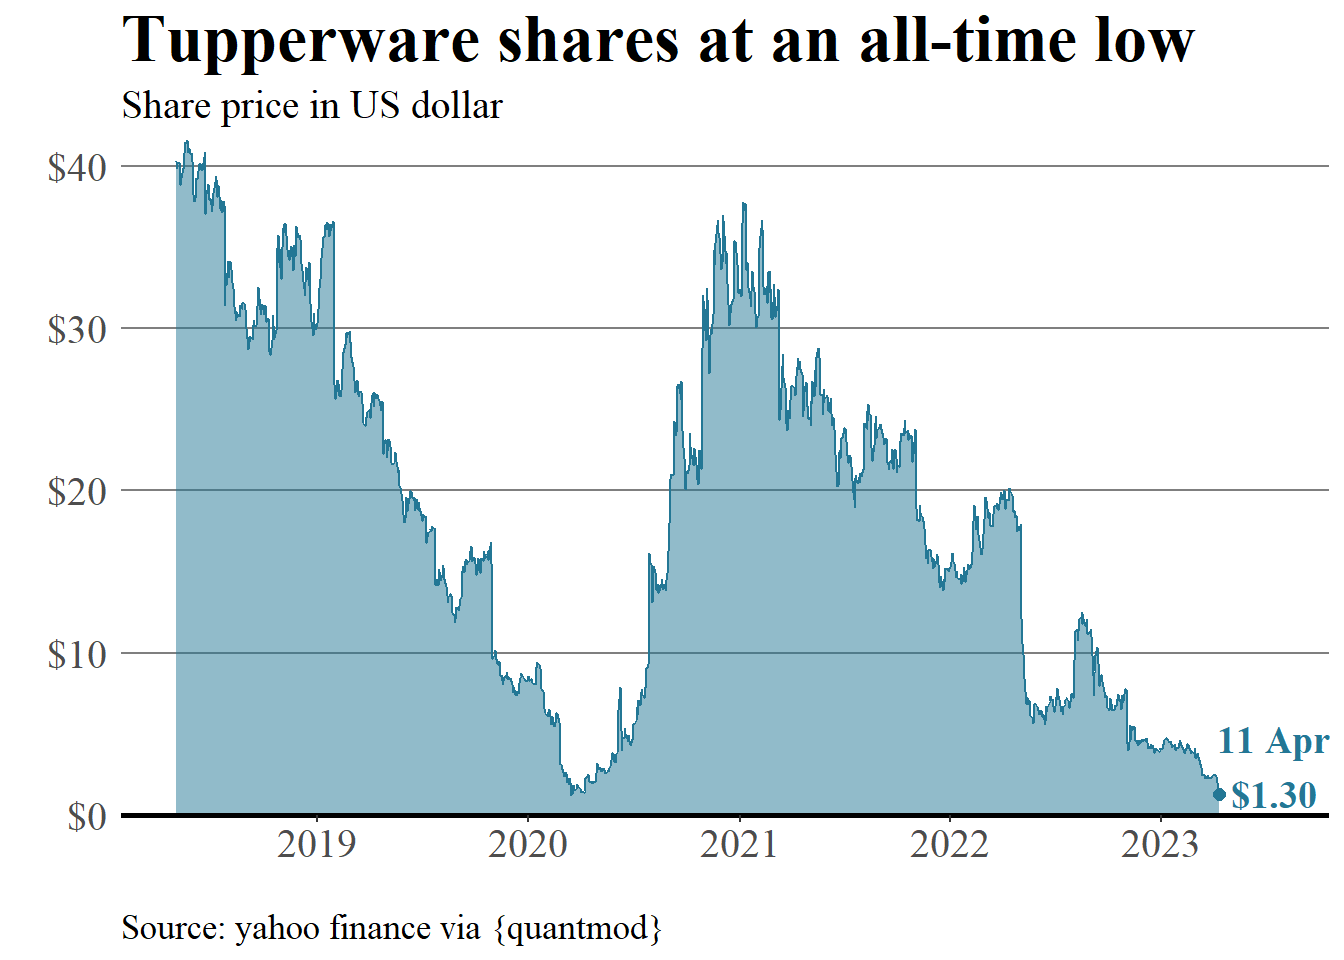
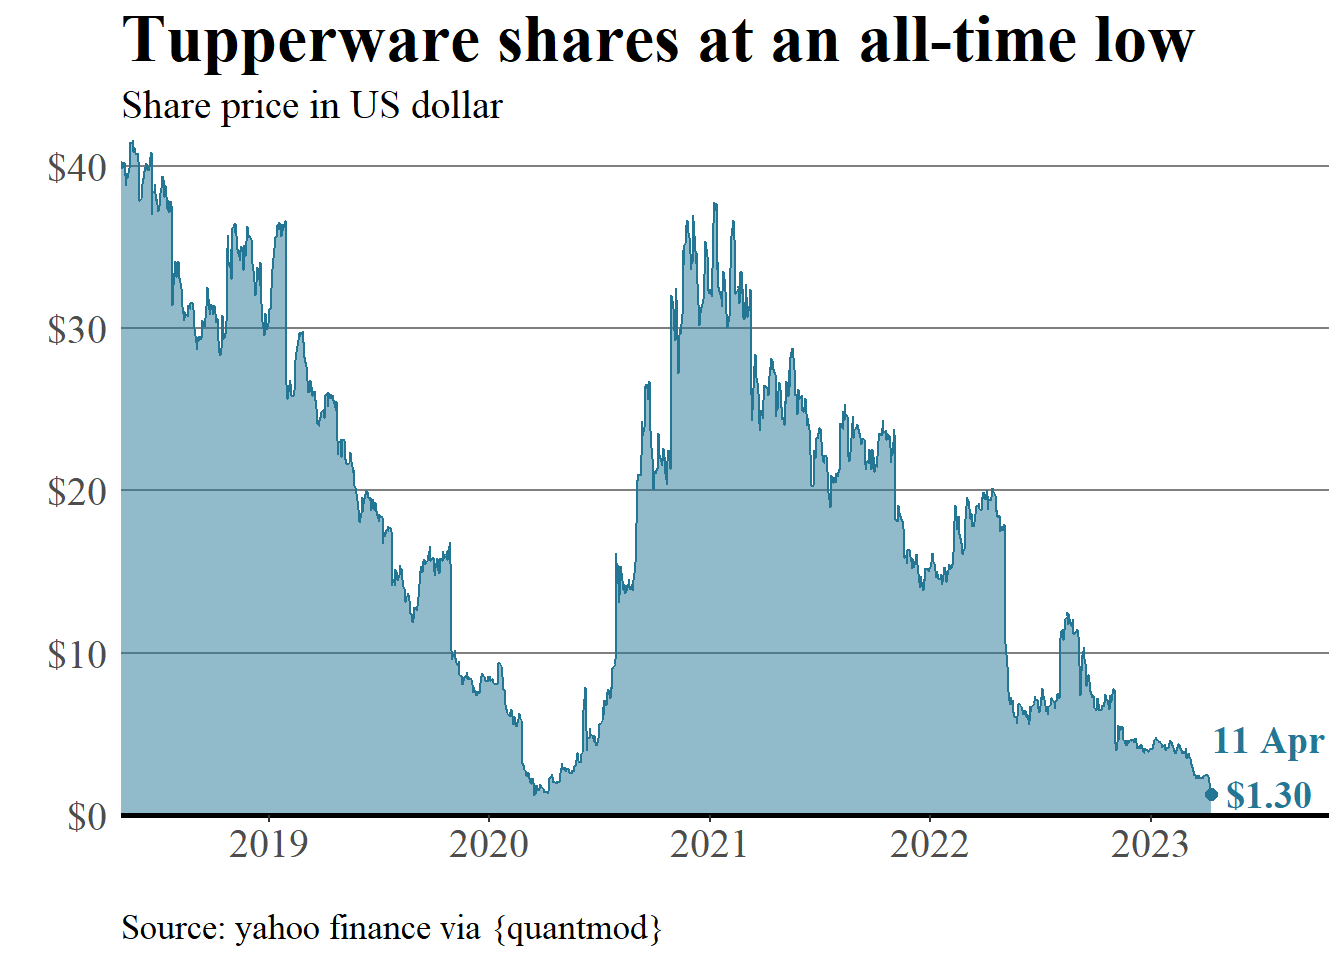
fix chart 20230412

diff --git a/_site/posts/30-days-charts-challenge-day12/index.html b/_site/posts/30-days-charts-challenge-day12/index.html
@@ -277,33 +277,35 @@ Registered S3 method overwritten by 'quantmod':
 <span id="cb7-7"><a href="#cb7-7" aria-hidden="true" tabindex="-1"></a>  <span class="fu">geom_area</span>(<span class="at">fill =</span> <span class="st">"#237795"</span>,<span class="at">alpha =</span> .<span class="dv">5</span>) <span class="sc">+</span></span>
 <span id="cb7-8"><a href="#cb7-8" aria-hidden="true" tabindex="-1"></a>  <span class="fu">scale_y_continuous</span>(<span class="at">labels =</span> scales<span class="sc">::</span><span class="fu">dollar_format</span>(),</span>
 <span id="cb7-9"><a href="#cb7-9" aria-hidden="true" tabindex="-1"></a>                     <span class="at">expand =</span> <span class="fu">c</span>(<span class="dv">0</span>,<span class="dv">0</span>)) <span class="sc">+</span></span>
-<span id="cb7-10"><a href="#cb7-10" aria-hidden="true" tabindex="-1"></a>  <span class="fu">labs</span>(<span class="at">title =</span> <span class="st">"Tupperware shares at an all-time low"</span>,</span>
-<span id="cb7-11"><a href="#cb7-11" aria-hidden="true" tabindex="-1"></a>       <span class="at">subtitle =</span> <span class="st">"Share price in US dollar"</span>,</span>
-<span id="cb7-12"><a href="#cb7-12" aria-hidden="true" tabindex="-1"></a>       <span class="at">y =</span> <span class="st">""</span>,</span>
-<span id="cb7-13"><a href="#cb7-13" aria-hidden="true" tabindex="-1"></a>       <span class="at">x =</span> <span class="st">""</span>,</span>
-<span id="cb7-14"><a href="#cb7-14" aria-hidden="true" tabindex="-1"></a>       <span class="at">caption =</span> <span class="st">"Source: yahoo finance via {quantmod}"</span>) <span class="sc">+</span></span>
-<span id="cb7-15"><a href="#cb7-15" aria-hidden="true" tabindex="-1"></a>  <span class="fu">annotate</span>(<span class="at">geom =</span> <span class="st">"point"</span>,</span>
-<span id="cb7-16"><a href="#cb7-16" aria-hidden="true" tabindex="-1"></a>           <span class="at">x =</span> <span class="fu">as.Date</span>(<span class="st">"2023-04-11"</span>),</span>
-<span id="cb7-17"><a href="#cb7-17" aria-hidden="true" tabindex="-1"></a>           <span class="at">y =</span> <span class="fl">1.3</span>,</span>
-<span id="cb7-18"><a href="#cb7-18" aria-hidden="true" tabindex="-1"></a>           <span class="at">col =</span> <span class="st">"#237795"</span>,</span>
-<span id="cb7-19"><a href="#cb7-19" aria-hidden="true" tabindex="-1"></a>           <span class="at">size =</span> <span class="dv">2</span>) <span class="sc">+</span> </span>
-<span id="cb7-20"><a href="#cb7-20" aria-hidden="true" tabindex="-1"></a>  <span class="fu">annotate</span>(<span class="at">geom =</span> <span class="st">"text"</span>,<span class="at">label =</span> <span class="st">"11 Apr</span><span class="sc">\n</span><span class="st">$1.30"</span>,</span>
-<span id="cb7-21"><a href="#cb7-21" aria-hidden="true" tabindex="-1"></a>           <span class="at">x =</span> <span class="fu">as.Date</span>(<span class="st">"2023-07-15"</span>),</span>
-<span id="cb7-22"><a href="#cb7-22" aria-hidden="true" tabindex="-1"></a>           <span class="at">y =</span> <span class="dv">3</span>,</span>
-<span id="cb7-23"><a href="#cb7-23" aria-hidden="true" tabindex="-1"></a>           <span class="at">col =</span> <span class="st">"#237795"</span>,</span>
-<span id="cb7-24"><a href="#cb7-24" aria-hidden="true" tabindex="-1"></a>           <span class="at">family =</span> <span class="st">"serif"</span>, <span class="at">fontface =</span> <span class="st">"bold"</span>,</span>
-<span id="cb7-25"><a href="#cb7-25" aria-hidden="true" tabindex="-1"></a>           <span class="at">size =</span> <span class="dv">5</span>) <span class="sc">+</span></span>
-<span id="cb7-26"><a href="#cb7-26" aria-hidden="true" tabindex="-1"></a>  <span class="fu">theme</span>(<span class="at">panel.background =</span> <span class="fu">element_rect</span>(<span class="at">fill =</span> <span class="st">"white"</span>),</span>
-<span id="cb7-27"><a href="#cb7-27" aria-hidden="true" tabindex="-1"></a>        <span class="at">panel.grid.major.y =</span> <span class="fu">element_line</span>(<span class="at">colour =</span> <span class="st">"grey50"</span>),</span>
-<span id="cb7-28"><a href="#cb7-28" aria-hidden="true" tabindex="-1"></a>        <span class="at">panel.grid.major.x =</span> <span class="fu">element_blank</span>(),</span>
-<span id="cb7-29"><a href="#cb7-29" aria-hidden="true" tabindex="-1"></a>        <span class="at">axis.ticks.y =</span> <span class="fu">element_blank</span>(),</span>
-<span id="cb7-30"><a href="#cb7-30" aria-hidden="true" tabindex="-1"></a>        <span class="at">axis.line.x =</span> <span class="fu">element_line</span>(<span class="at">linewidth =</span> <span class="dv">1</span>),</span>
-<span id="cb7-31"><a href="#cb7-31" aria-hidden="true" tabindex="-1"></a>        <span class="at">text =</span> <span class="fu">element_text</span>(<span class="at">family =</span> <span class="st">"serif"</span>),</span>
-<span id="cb7-32"><a href="#cb7-32" aria-hidden="true" tabindex="-1"></a>        <span class="at">axis.text =</span> <span class="fu">element_text</span>(<span class="at">size =</span> <span class="dv">15</span>),</span>
-<span id="cb7-33"><a href="#cb7-33" aria-hidden="true" tabindex="-1"></a>        <span class="at">plot.title =</span> <span class="fu">element_text</span>(<span class="at">face =</span> <span class="st">"bold"</span>,</span>
-<span id="cb7-34"><a href="#cb7-34" aria-hidden="true" tabindex="-1"></a>                                  <span class="at">family =</span> <span class="st">"serif"</span>,<span class="at">size =</span> <span class="dv">25</span>),</span>
-<span id="cb7-35"><a href="#cb7-35" aria-hidden="true" tabindex="-1"></a>        <span class="at">plot.subtitle =</span> <span class="fu">element_text</span>(<span class="at">family =</span> <span class="st">"serif"</span>,<span class="at">size =</span> <span class="dv">15</span>),</span>
-<span id="cb7-36"><a href="#cb7-36" aria-hidden="true" tabindex="-1"></a>        <span class="at">plot.caption =</span> <span class="fu">element_text</span>(<span class="at">hjust =</span> <span class="dv">0</span>,<span class="at">family =</span> <span class="st">"serif"</span>,<span class="at">size =</span> <span class="dv">13</span>))</span></code><button title="Copy to Clipboard" class="code-copy-button"><i class="bi"></i></button></pre></div>
+<span id="cb7-10"><a href="#cb7-10" aria-hidden="true" tabindex="-1"></a>  <span class="fu">scale_x_date</span>(<span class="at">expand =</span> <span class="fu">expansion</span>(<span class="at">mult =</span> <span class="fu">c</span>(<span class="dv">0</span>,<span class="dv">0</span>),</span>
+<span id="cb7-11"><a href="#cb7-11" aria-hidden="true" tabindex="-1"></a>                                  <span class="at">add =</span> <span class="fu">c</span>(<span class="dv">0</span>,<span class="dv">100</span>))) <span class="sc">+</span> </span>
+<span id="cb7-12"><a href="#cb7-12" aria-hidden="true" tabindex="-1"></a>  <span class="fu">labs</span>(<span class="at">title =</span> <span class="st">"Tupperware shares at an all-time low"</span>,</span>
+<span id="cb7-13"><a href="#cb7-13" aria-hidden="true" tabindex="-1"></a>       <span class="at">subtitle =</span> <span class="st">"Share price in US dollar"</span>,</span>
+<span id="cb7-14"><a href="#cb7-14" aria-hidden="true" tabindex="-1"></a>       <span class="at">y =</span> <span class="st">""</span>,</span>
+<span id="cb7-15"><a href="#cb7-15" aria-hidden="true" tabindex="-1"></a>       <span class="at">x =</span> <span class="st">""</span>,</span>
+<span id="cb7-16"><a href="#cb7-16" aria-hidden="true" tabindex="-1"></a>       <span class="at">caption =</span> <span class="st">"Source: yahoo finance via {quantmod}"</span>) <span class="sc">+</span></span>
+<span id="cb7-17"><a href="#cb7-17" aria-hidden="true" tabindex="-1"></a>  <span class="fu">annotate</span>(<span class="at">geom =</span> <span class="st">"point"</span>,</span>
+<span id="cb7-18"><a href="#cb7-18" aria-hidden="true" tabindex="-1"></a>           <span class="at">x =</span> <span class="fu">as.Date</span>(<span class="st">"2023-04-11"</span>),</span>
+<span id="cb7-19"><a href="#cb7-19" aria-hidden="true" tabindex="-1"></a>           <span class="at">y =</span> <span class="fl">1.3</span>,</span>
+<span id="cb7-20"><a href="#cb7-20" aria-hidden="true" tabindex="-1"></a>           <span class="at">col =</span> <span class="st">"#237795"</span>,</span>
+<span id="cb7-21"><a href="#cb7-21" aria-hidden="true" tabindex="-1"></a>           <span class="at">size =</span> <span class="dv">2</span>) <span class="sc">+</span> </span>
+<span id="cb7-22"><a href="#cb7-22" aria-hidden="true" tabindex="-1"></a>  <span class="fu">annotate</span>(<span class="at">geom =</span> <span class="st">"text"</span>,<span class="at">label =</span> <span class="st">"11 Apr</span><span class="sc">\n</span><span class="st">$1.30"</span>,</span>
+<span id="cb7-23"><a href="#cb7-23" aria-hidden="true" tabindex="-1"></a>           <span class="at">x =</span> <span class="fu">as.Date</span>(<span class="st">"2023-07-15"</span>),</span>
+<span id="cb7-24"><a href="#cb7-24" aria-hidden="true" tabindex="-1"></a>           <span class="at">y =</span> <span class="dv">3</span>,</span>
+<span id="cb7-25"><a href="#cb7-25" aria-hidden="true" tabindex="-1"></a>           <span class="at">col =</span> <span class="st">"#237795"</span>,</span>
+<span id="cb7-26"><a href="#cb7-26" aria-hidden="true" tabindex="-1"></a>           <span class="at">family =</span> <span class="st">"serif"</span>, <span class="at">fontface =</span> <span class="st">"bold"</span>,</span>
+<span id="cb7-27"><a href="#cb7-27" aria-hidden="true" tabindex="-1"></a>           <span class="at">size =</span> <span class="dv">5</span>) <span class="sc">+</span></span>
+<span id="cb7-28"><a href="#cb7-28" aria-hidden="true" tabindex="-1"></a>  <span class="fu">theme</span>(<span class="at">panel.background =</span> <span class="fu">element_rect</span>(<span class="at">fill =</span> <span class="st">"white"</span>),</span>
+<span id="cb7-29"><a href="#cb7-29" aria-hidden="true" tabindex="-1"></a>        <span class="at">panel.grid.major.y =</span> <span class="fu">element_line</span>(<span class="at">colour =</span> <span class="st">"grey50"</span>),</span>
+<span id="cb7-30"><a href="#cb7-30" aria-hidden="true" tabindex="-1"></a>        <span class="at">panel.grid.major.x =</span> <span class="fu">element_blank</span>(),</span>
+<span id="cb7-31"><a href="#cb7-31" aria-hidden="true" tabindex="-1"></a>        <span class="at">axis.ticks.y =</span> <span class="fu">element_blank</span>(),</span>
+<span id="cb7-32"><a href="#cb7-32" aria-hidden="true" tabindex="-1"></a>        <span class="at">axis.line.x =</span> <span class="fu">element_line</span>(<span class="at">linewidth =</span> <span class="dv">1</span>),</span>
+<span id="cb7-33"><a href="#cb7-33" aria-hidden="true" tabindex="-1"></a>        <span class="at">text =</span> <span class="fu">element_text</span>(<span class="at">family =</span> <span class="st">"serif"</span>),</span>
+<span id="cb7-34"><a href="#cb7-34" aria-hidden="true" tabindex="-1"></a>        <span class="at">axis.text =</span> <span class="fu">element_text</span>(<span class="at">size =</span> <span class="dv">15</span>),</span>
+<span id="cb7-35"><a href="#cb7-35" aria-hidden="true" tabindex="-1"></a>        <span class="at">plot.title =</span> <span class="fu">element_text</span>(<span class="at">face =</span> <span class="st">"bold"</span>,</span>
+<span id="cb7-36"><a href="#cb7-36" aria-hidden="true" tabindex="-1"></a>                                  <span class="at">family =</span> <span class="st">"serif"</span>,<span class="at">size =</span> <span class="dv">25</span>),</span>
+<span id="cb7-37"><a href="#cb7-37" aria-hidden="true" tabindex="-1"></a>        <span class="at">plot.subtitle =</span> <span class="fu">element_text</span>(<span class="at">family =</span> <span class="st">"serif"</span>,<span class="at">size =</span> <span class="dv">15</span>),</span>
+<span id="cb7-38"><a href="#cb7-38" aria-hidden="true" tabindex="-1"></a>        <span class="at">plot.caption =</span> <span class="fu">element_text</span>(<span class="at">hjust =</span> <span class="dv">0</span>,<span class="at">family =</span> <span class="st">"serif"</span>,<span class="at">size =</span> <span class="dv">13</span>))</span></code><button title="Copy to Clipboard" class="code-copy-button"><i class="bi"></i></button></pre></div>
 <div class="cell-output-display">
 <p><img src="index_files/figure-html/unnamed-chunk-3-1.png" class="img-fluid" width="672"></p>
 </div>

diff --git a/_site/index.html b/_site/index.html
@@ -196,7 +196,7 @@ ul.task-list li input[type="checkbox"] {
 <a href="./posts/stats-with-vector/index.html"> </a>
 </div>
 </div>
-<div class="quarto-post image-right" data-index="1" data-categories="R,Dataviz" data-listing-date-sort="1681268400000" data-listing-file-modified-sort="1681307929561" data-listing-reading-time-sort="2.375">
+<div class="quarto-post image-right" data-index="1" data-categories="R,Dataviz" data-listing-date-sort="1681268400000" data-listing-file-modified-sort="1681308719488" data-listing-reading-time-sort="2.595">
 <div class="thumbnail">
 <p><a href="./posts/30-days-charts-challenge-day12/index.html"> <img src="./posts/30-days-charts-challenge-day12/BBC_News_2019.svg.png" class="thumnail-image"> </a></p>
 </div>
